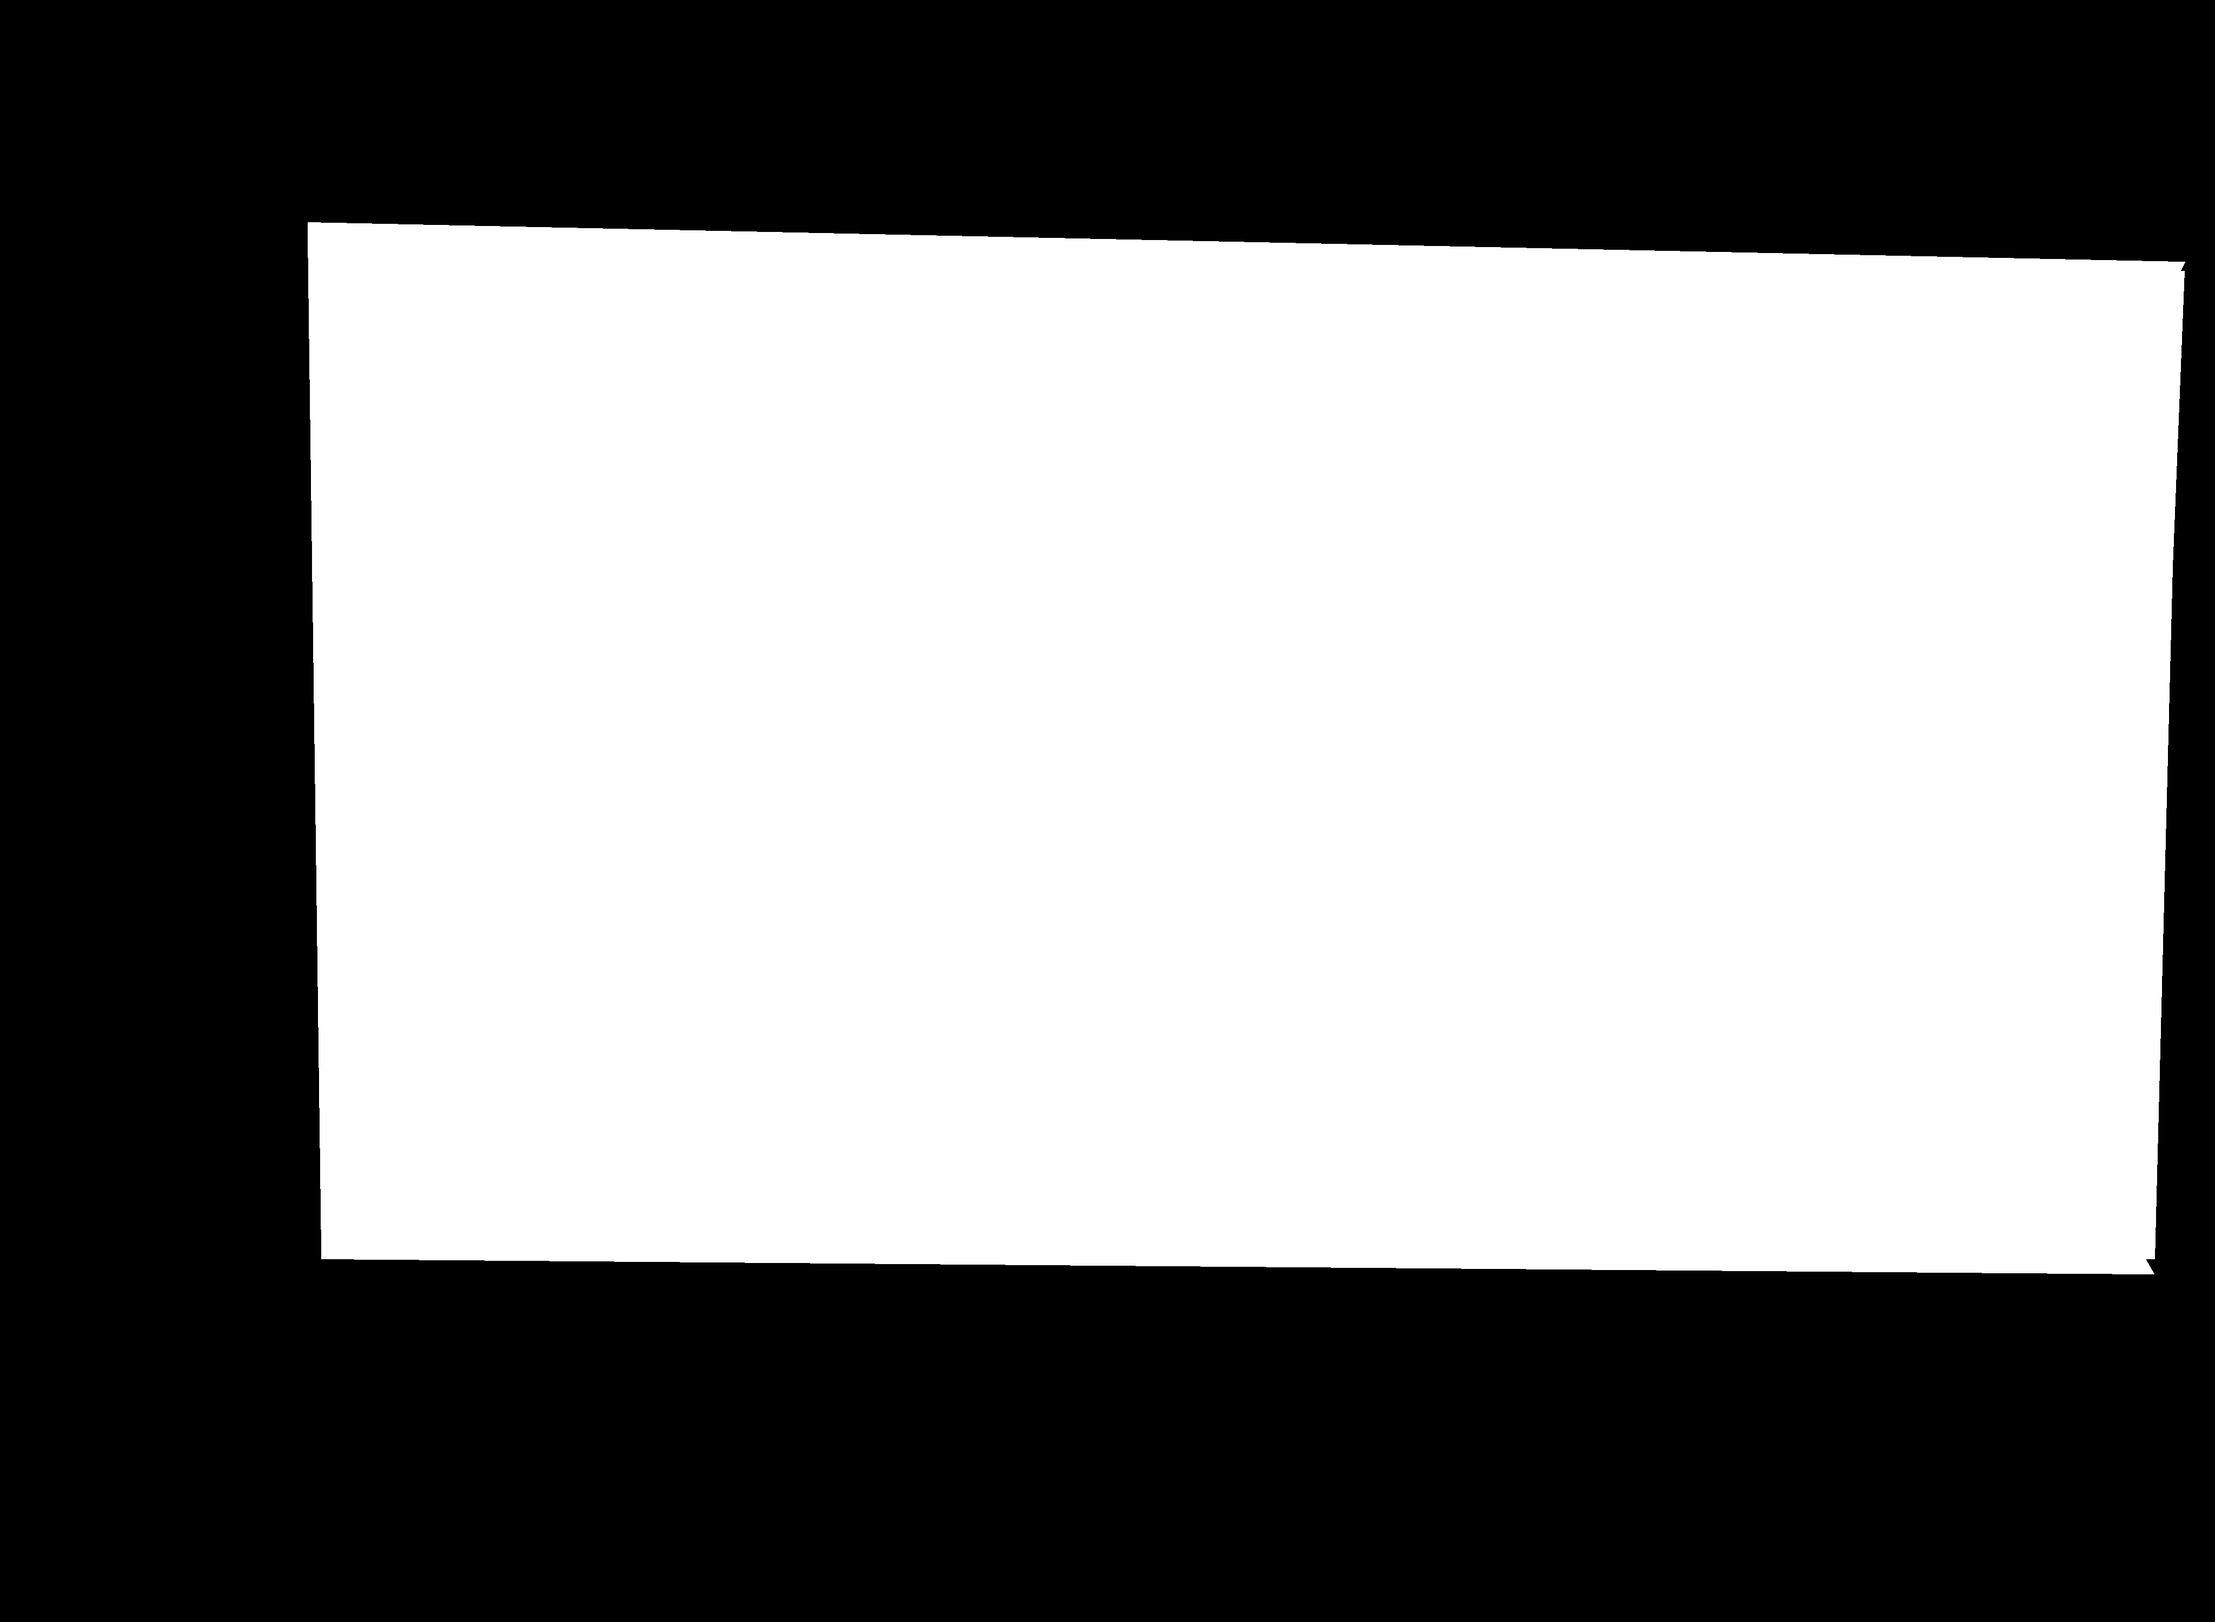
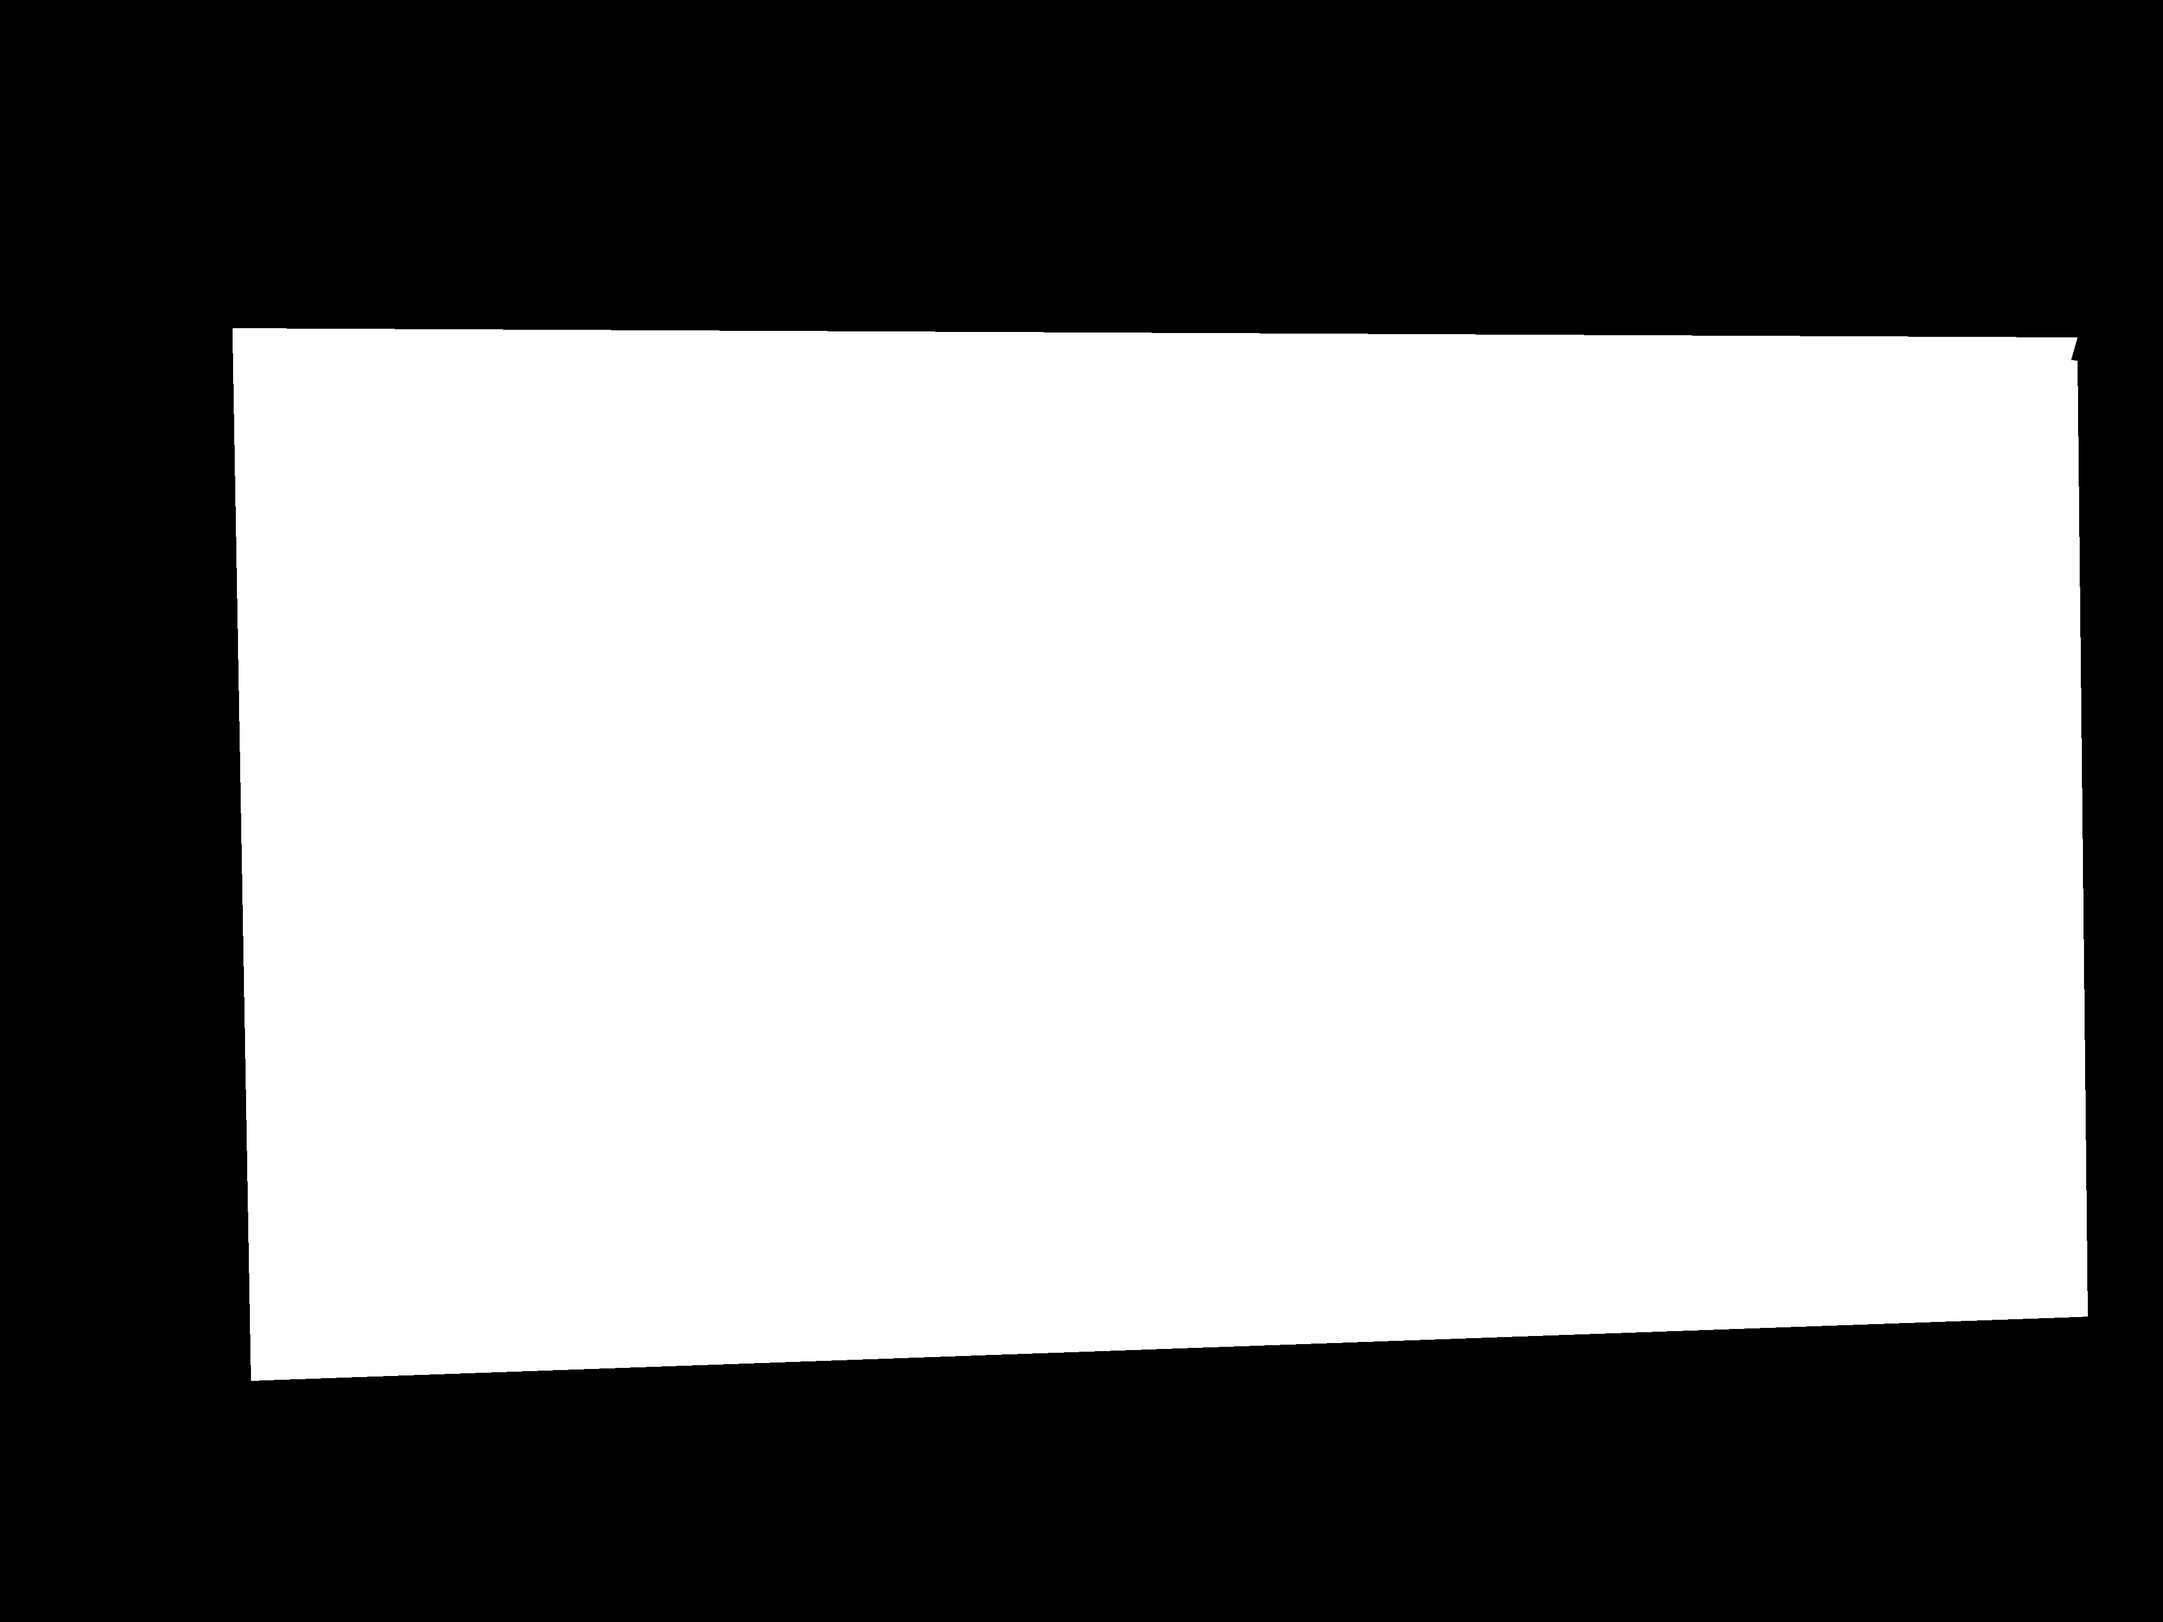
霍夫变换参数调整

Changed region(s): [[0.093, 0.124, 0.9922, 0.868]]

diff --git a/Registrating.cpp b/Registrating.cpp
@@ -184,7 +184,7 @@ void Registrator::SolvEqu(double a, double b, double c, double d, double e, doub
 
 //获得直线交点,第4,5,6个参数是HoughLines的rho精度，theta精度和长度阈值
 
-void Registrator::CntPoint(Mat& srcImage, Mat& dstImage, vector<vector<Point>>& pts, double rho_h, double theta_h, double th_h)
+void Registrator::CntPoint(Mat& srcImage, Mat& dstImage, vector<vector<Point>>& pts, double rho_h, double theta_h, double th_h, double srn, double stn)
 {
 	//【1】载入原始图和Mat变量定义   
 	//Mat srcImage = imread("remove.png");  //工程目录下应该有一张名为remove.png的素材图
@@ -197,7 +197,7 @@ void Registrator::CntPoint(Mat& srcImage, Mat& dstImage, vector<vector<Point>>& 
 
 	//【3】进行霍夫线变换
 	vector<Vec2f> lines;//定义一个矢量结构lines用于存放得到的线段矢量集合
-	HoughLines(midImage, lines, rho_h, theta_h, th_h, 0, 0);
+	HoughLines(midImage, lines, rho_h, theta_h, th_h, srn, stn);
 
 	//【4】依次在图中绘制出每条线段,并且两两求交点
 	for (size_t i = 0; i < lines.size(); i++)
@@ -218,7 +218,7 @@ void Registrator::CntPoint(Mat& srcImage, Mat& dstImage, vector<vector<Point>>& 
 			double rho2 = lines[j][0], theta2 = lines[j][1];
 			double c = cos(theta2), d = sin(theta2), x, y;
 			SolvEqu(a, b, -rho, c, d, -rho2, x, y);
-			if ((0 <= x && x <= 4096 && 0 <= y && y <= 3000) && !((x > 1000 && x < 3000) || (y > 1050 && y < 1950)))
+			if ((0 <= x && x <= srcImage.cols && 0 <= y && y <= srcImage.rows) && !((x > (srcImage.cols / 4) && x < (srcImage.cols / 6 * 5)) || (y > (srcImage.rows / 3) && y < (srcImage.rows / 3 * 2))))
 				pts[0].push_back(Point(x, y));
 		}
 	}
@@ -271,7 +271,7 @@ bool Registrator::Registrating1Pic(Mat& M, String FnSrc, String fnImg1, String F
 		RemoveSmall(Img1, midImg);
 		try {
 			//获得多边形顶点1（重复3次减少误差默认failed ? CntPoint(midImg, Img1, pts, 15, CV_PI / 240, 800) : CntPoint(midImg, Img1, pts);
-			failed ? CntPoint(midImg, Img1, pts, 15, CV_PI / 240, 700) : CntPoint(midImg, Img1, pts);
+			failed ? CntPoint(midImg, Img1, pts, 12, CV_PI / 180, 1000) : CntPoint(midImg, Img1, pts);
 			std::cout << pts[0] << std::endl;
 			//由顶点填充多边形1
 			intoPoly(Img1, pts);
@@ -311,7 +311,7 @@ bool Registrator::Registrating1Pic(Mat& M, String FnSrc, String fnImg1, String F
 		//删除多余顶点(仅仅将不多余的放入2f)
 		for (int i = 1, j = 1; i < pts[0].size(); ++i) {
 			//不为多余顶点
-			if (abs(pts[0][i - 1].x - pts[0][i].x) > 1000 || abs(pts[0][i - 1].y - pts[0][i].y) > 800)
+			if (abs(pts[0][i - 1].x - pts[0][i].x) > (src.cols / 4) || abs(pts[0][i - 1].y - pts[0][i].y) > (src.rows / 4))
 				pts2F[j++] = pts[0][i];
 		}
 		pts2F[0] = pts[0][0];
@@ -338,6 +338,8 @@ bool Registrator::Registrating1Pic(Mat& M, String FnSrc, String fnImg1, String F
 	}
 	Mat maskedDst;
 	dst.copyTo(maskedDst, refImg);//抠图
+	//测试用，如果失败过在图片上标记
+	if (failed) putText(maskedDst, "2222", Point(1600, 900), FONT_HERSHEY_TRIPLEX, 10, Scalar(0, 0, 255));
 	mkdirAndImwrite(FnFi, maskedDst);//最终结果
 	failedImg.close();
 
@@ -417,7 +419,7 @@ bool Registrator::Registrating1PicSemi(Mat& M, String FnSrc, String fnImg1, Stri
 		//删除多余顶点(仅仅将不多余的放入2f)
 		for (int i = 1, j = 1; i < pts[0].size(); ++i) {
 			//不为多余顶点
-			if (abs(pts[0][i - 1].x - pts[0][i].x) > 1000 || abs(pts[0][i - 1].y - pts[0][i].y) > 800)
+			if (abs(pts[0][i - 1].x - pts[0][i].x) > (src.cols / 4) || abs(pts[0][i - 1].y - pts[0][i].y) > (src.rows / 4))
 				pts2F[j++] = pts[0][i];
 		}
 		pts2F[0] = pts[0][0];
@@ -445,7 +447,7 @@ bool Registrator::Registrating1PicSemi(Mat& M, String FnSrc, String fnImg1, Stri
 
 //完成整个配准过程
 
-void Registrator::Registrating(String& srcPattern, String& binPattern, String& dstPattern, char useSemiAuto, char useFailedImg, QObject* win, int startPos) {
+void Registrator::registrating(const string& srcPattern, const string& binPattern, const string& dstPattern, const char useSemiAuto, const char useFailedImg, const int startPos) {
 	//qDebug() << "12311111111111111111111111111111111111111111111";
 	vector<String> srcNames;//保存图名
 	//String srcPattern = "E:\\root\\";

diff --git a/Registrating.h b/Registrating.h
@@ -10,8 +10,6 @@
 #include <opencv2\opencv.hpp>
 #include <highgui.hpp>
 #include <imgproc.hpp>
-#include <QMainWindow>
-#include <QFileDialog>
 #include <QString>
 #include <QObject>
 #include <QThread>
@@ -36,18 +34,20 @@ class Registrator : public QObject
 	Q_OBJECT
 public:
 	//可指定一个线程用于运行
-	Registrator() :is_paused(false) {}
+	Registrator() = default;
+	Registrator(const Registrator& src) : is_paused(src.is_paused) {}
+	~Registrator() {}
 	inline bool isPaused() { return is_paused; }
 	inline void worker_pause() { this->is_paused = true; }
 	inline void worker_resume() { this->is_paused = false; }
 public slots:
-	//参数分别为源文件父目录，根箱二值图父目录，目标文件存储目录，是否使用半自动[y/n]，是否使用失败文件列表[y/n]，传入的主窗口指针，从第几个文件开始(默认为0，用于暂停)
+	//参数分别为源文件父目录，根箱二值图父目录，目标文件存储目录，是否使用半自动[y/n]，是否使用失败文件列表[y/n]，从第几个文件开始(默认为0，用于暂停)
 	//最后一个为回调函数用于发送进度信息，参数分别为目前处理的文件名，处理到第几个文件，总共处理多少文件，T为调用该函数的窗口类型
-	void Registrating(String& srcPattern, String& binPattern, String& dstPattern, char useSemiAuto, char useFailedImg, QObject* win = nullptr, int startPos = 0);
+	void registrating(const string& srcPattern, const string& binPattern, const string& dstPattern, const char useSemiAuto, const char useFailedImg, const int startPos = 0);
 signals:
 	void handleResults();
 	void handlePause();
-	void sendProcess(QString processingName, int processingNum, int allNum);
+	void sendProcess(const QString processingName, const int processingNum, const int allNum);
 
 private:
 	static void mkdirAndImwrite(const String& filename, InputArray& img);
@@ -67,8 +67,10 @@ private:
 	//intoPoly
 	static int RemoveSmall(Mat& src, Mat& dst);
 	static void SolvEqu(double a, double b, double c, double d, double e, double f, double& x, double& y);
-	//默认void CntPoint(Mat& srcImage, Mat& dstImage, vector<vector<Point>>& pts, double rho_h = 10, double theta_h = CV_PI / 240, double th_h = 1400);
-	static void CntPoint(Mat& srcImage, Mat& dstImage, vector<vector<Point>>& pts, double rho_h = 12, double theta_h = CV_PI / 240, double th_h = 1000);
+	//默认static void CntPoint(Mat& srcImage, Mat& dstImage, vector<vector<Point>>& pts, double rho_h = 10, double theta_h = CV_PI / 240, double th_h = 1400);
+	//static void CntPoint(Mat& srcImage, Mat& dstImage, vector<vector<Point>>& pts, double rho_h = 12, double theta_h = CV_PI / 240, double th_h = 1000);
+
+	static void CntPoint(Mat& srcImage, Mat& dstImage, vector<vector<Point>>& pts, double rho_h = 1, double theta_h = CV_PI / 360, double th_h = 450, double srn = 0, double stn = 0);
 	static void intoPoly(Mat& dstImage, vector<vector<Point>>& pts);
 
 	//Registrating

diff --git a/mainwindow.cpp b/mainwindow.cpp
@@ -50,9 +50,9 @@ void MainWindow::on_checkBoxFailedList_stateChanged(int arg1)
 
 void MainWindow::on_pushButtonRun_clicked()
 {
-	String filePattern(ui->lineEditSrc->text().toStdString());
-	String binImg(ui->lineEditBin->text().toStdString());
-	String dstImg(ui->lineEditDst->text().toStdString());
+	string filePattern(ui->lineEditSrc->text().toStdString());
+	string binImg(ui->lineEditBin->text().toStdString());
+	string dstImg(ui->lineEditDst->text().toStdString());
 	//将Registrator初始化到线程workerThread上
 	worker = new Registrator();
 	worker->moveToThread(&workerThread);
@@ -65,7 +65,7 @@ void MainWindow::on_pushButtonRun_clicked()
 	//用于暂停和恢复
 	connect(worker, &Registrator::handlePause, this, &MainWindow::handlePause);
 	//operate信号发射后启动线程工作
-	connect(this, &MainWindow::operate, worker, &Registrator::Registrating);
+	connect(this, &MainWindow::operate, worker, &Registrator::registrating);
 	//线程结束后发送信号，对结果进行处理
 	connect(worker, &Registrator::handleResults, this, &MainWindow::handleResults);
 	//按钮变灰和激活
@@ -79,7 +79,7 @@ void MainWindow::on_pushButtonRun_clicked()
 	//启动线程
 	workerThread.start();
 	//发射进程运行信号
-	emit operate(filePattern, binImg, dstImg, this->getSemi(), this->getFailed(), this);
+	emit operate(filePattern, binImg, dstImg, this->getSemi(), this->getFailed());
 }
 
 void MainWindow::on_pushButtonPause_clicked()
@@ -93,9 +93,9 @@ void MainWindow::on_pushButtonResume_clicked()
 {
 	ui->pushButtonResume->setEnabled(false);
 
-	String filePattern(ui->lineEditSrc->text().toStdString());
-	String binImg(ui->lineEditBin->text().toStdString());
-	String dstImg(ui->lineEditDst->text().toStdString());
+	string filePattern(ui->lineEditSrc->text().toStdString());
+	string binImg(ui->lineEditBin->text().toStdString());
+	string dstImg(ui->lineEditDst->text().toStdString());
 	string tmp(ui->labelProgress->text().toStdString());
 	int i = 0;
 	if (!tmp.empty()) {
@@ -106,7 +106,7 @@ void MainWindow::on_pushButtonResume_clicked()
 	//重新启动线程
 	workerThread.start();
 	//发射进程运行信号,从上次终止的点开始,最后一个参数就是上次运行到的断点
-	emit operate(filePattern, binImg, dstImg, this->getSemi(), this->getFailed(), this, std::stoi(string(tmp, 0, i)));
+	emit operate(filePattern, binImg, dstImg, this->getSemi(), this->getFailed(), std::stoi(string(tmp, 0, i)));
 	ui->pushButtonPause->setEnabled(true);
 }
 
@@ -138,7 +138,7 @@ void MainWindow::handlePause() {
 	ui->labelProcessingName->setText(QString::fromStdString("已暂停"));
 }
 
-void MainWindow::sendProcess(QString processingName, int processingNum, int allNum) {
+void MainWindow::sendProcess(const QString processingName, const int processingNum, const int allNum) {
 	//任务进度
 	string progress(std::to_string(processingNum) + "/" + std::to_string(allNum));
 	ui->labelProgress->setText(QString::fromStdString(progress));

diff --git a/main.cpp b/main.cpp
@@ -4,21 +4,40 @@
 #include <QLocale>
 #include <QTranslator>
 
-int main(int argc, char *argv[])
+int main(int argc, char* argv[])
 {
-    QApplication a(argc, argv);
+	QApplication a(argc, argv);
 
-    QTranslator translator;
-    const QStringList uiLanguages = QLocale::system().uiLanguages();
-    for (const QString &locale : uiLanguages) {
-        const QString baseName = "QtTest_" + QLocale(locale).name();
-        if (translator.load(":/i18n/" + baseName)) {
-            a.installTranslator(&translator);
-            break;
-        }
-    }
-    MainWindow w;
-    w.show();
+	QTranslator translator;
+	const QStringList uiLanguages = QLocale::system().uiLanguages();
+	for (const QString& locale : uiLanguages) {
+		const QString baseName = "QtTest_" + QLocale(locale).name();
+		if (translator.load(":/i18n/" + baseName)) {
+			a.installTranslator(&translator);
+			break;
+		}
+	}
+	MainWindow w;
+	w.show();
 
-    return a.exec();
+	return a.exec();
 }
+
+////测试非GUI
+//#include <iostream>
+//#include "Registrating.h"
+//#include <string>
+//using namespace std;
+//
+//int main() {
+//	string srcPattern = "F:\\shixi\\CS\\registration\\registration\\srcImg";
+//	string binPattern = "F:\\shixi\\CS\\registration\\registration\\binImg";
+//	string dstPattern = "F:\\shixi\\CS\\registration\\registration\\dstImg";
+//	char useSemiAuto = 'n';
+//	char useFailedImg = 'n';
+//	int startPos = 0;
+//	Registrator registrator;
+//	registrator.registrating(srcPattern, binPattern, dstPattern, useSemiAuto, useFailedImg, startPos);
+//
+//	return 0;
+//}

diff --git a/mainwindow.h b/mainwindow.h
@@ -31,7 +31,8 @@ public:
 	inline char getFailed() { return failed_list; }
 
 signals:
-    void operate(cv::String& srcPattern, cv::String& binPattern, cv::String& dstPattern, char useSemiAuto, char useFailedImg, QMainWindow* win, int startPos = 0);
+	void operate(const string& srcPattern, const string& binPattern, const string& dstPattern, const char useSemiAuto, const char useFailedImg, const int startPos = 0);
+	//void operate(cv::String& srcPattern, cv::String& binPattern, cv::String& dstPattern, char useSemiAuto, char useFailedImg, int startPos = 0);
 
 public slots:
 	void handleResults();
@@ -39,7 +40,7 @@ public slots:
 	//void set_labelProcessingName_text(const QString& text);
 	//void set_labelProgress_text(const QString& text);
 	//void set_progressBar_val(int val);
-	void sendProcess(QString processingName, int processingNum, int allNum);
+	void sendProcess(const QString processingName, const int processingNum, const int allNum);
 
 private slots:
 	void on_pushButtonSrc_clicked();
